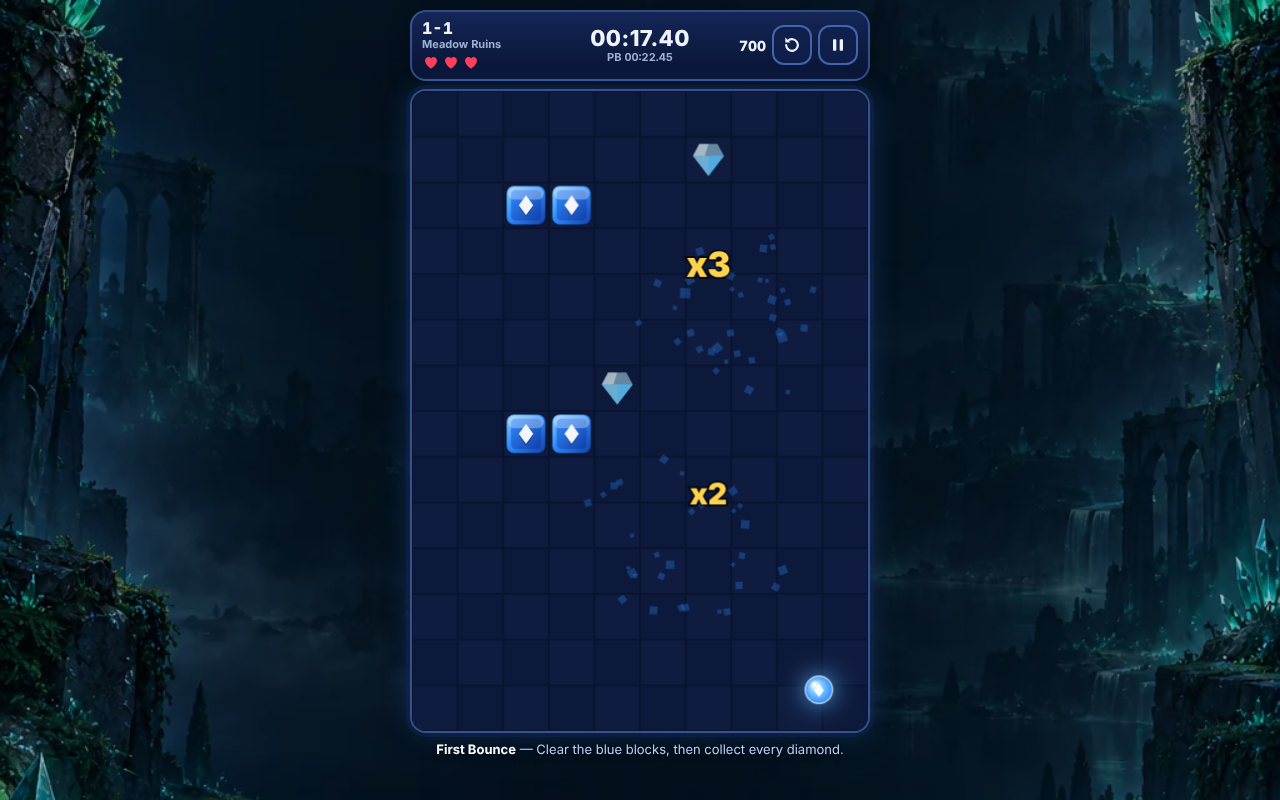
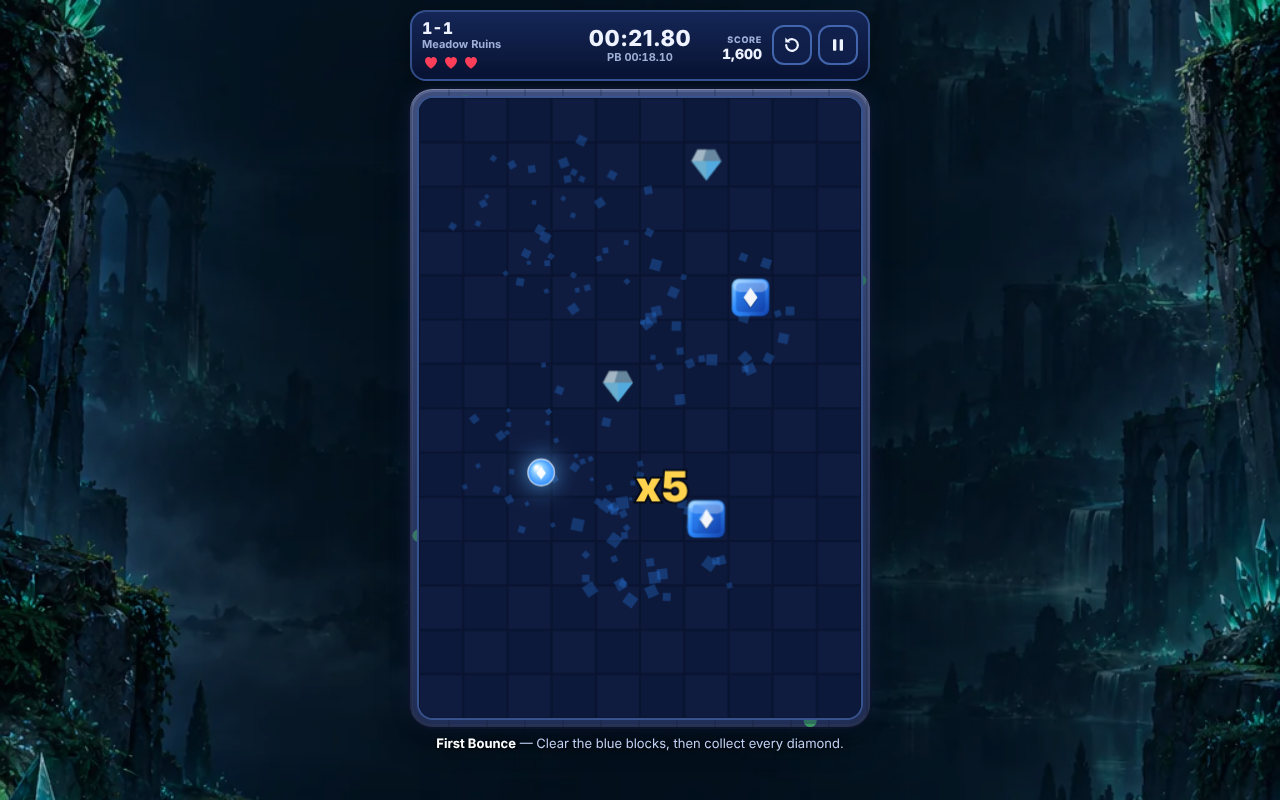
tiltstones: reviewer fixes — stuck panel, frame, callout/combo overlap, win panel; design requests R1-R2
Claude-Session: https://claude.ai/code/session_014SCvTSvNFtm4ysqQK3KLDP

diff --git a/games/tiltstones/index.html b/games/tiltstones/index.html
@@ -87,12 +87,21 @@
   #clock { font: 800 22px var(--font); letter-spacing: .02em; line-height: 1.1; }
   #pb { font-size: 11px; color: var(--muted); font-weight: 700; }
   .hud-r { display: flex; justify-content: flex-end; align-items: center; gap: 6px; }
-  .score { text-align: right; line-height: 1.05; min-width: 0; }
+  .score { text-align: right; line-height: 1.05; min-width: 0; margin-right: 4px; }
+  .slabel { font-size: 9px; font-weight: 800; color: var(--muted); letter-spacing: .08em; text-transform: uppercase; }
   #combo { display: block; font: 900 20px var(--font); color: var(--gold); text-shadow: 0 0 10px rgba(255,190,40,.7); min-height: 1px; }
   #combo.pop { animation: pop .35s ease-out; }
   @keyframes pop { 0% { transform: scale(1.8); } 100% { transform: scale(1); } }
   #score { font-weight: 800; font-size: 14px; }
   .hud .icon { width: 40px; height: 40px; }
+  .frame { padding: 7px; border-radius: 22px; margin: 0 auto; max-width: 100%;
+    background:
+      radial-gradient(circle at 6% 4%, #4fa85a 0 9px, transparent 10px), radial-gradient(circle at 12% 2%, #3f9a52 0 6px, transparent 7px),
+      radial-gradient(circle at 94% 97%, #4fa85a 0 9px, transparent 10px), radial-gradient(circle at 87% 99%, #3f9a52 0 6px, transparent 7px),
+      radial-gradient(circle at 98% 30%, #3f9a52 0 5px, transparent 6px), radial-gradient(circle at 2% 70%, #4fa85a 0 6px, transparent 7px),
+      repeating-linear-gradient(90deg, rgba(0,0,0,.18) 0 2px, transparent 2px 38px),
+      linear-gradient(#5a6386, #343b58 60%, #262c44);
+    box-shadow: 0 0 0 2px rgba(10,14,30,.8), 0 10px 30px rgba(0,0,0,.5), inset 0 1px 0 rgba(255,255,255,.25); }
   .stage { position: relative; width: fit-content; max-width: 100%; margin: 0 auto; }
   canvas { display: block; border-radius: 16px; touch-action: none; border: 2px solid rgba(110,160,255,.45);
     box-shadow: 0 0 0 4px rgba(20,40,90,.35), 0 0 28px rgba(60,120,255,.25); background: #0a1430; }
@@ -187,12 +196,12 @@
     </div>
     <div class="hud-c"><div id="clock">00:00.00</div><div id="pb">PB --:--.--</div></div>
     <div class="hud-r">
-      <div class="score"><span id="combo"></span><span id="score">0</span></div>
+      <div class="score"><span id="combo"></span><small class="slabel">Score</small> <span id="score">0</span></div>
       <button class="icon" id="restartBtn" aria-label="Restart level" title="Restart (R)"><svg><use href="#i-restart"/></svg></button>
       <button class="icon" id="pauseBtn" aria-label="Pause" title="Pause (P / Esc)"><svg><use href="#i-pause"/></svg></button>
     </div>
   </div>
-  <div class="stage" id="stage">
+  <div class="frame"><div class="stage" id="stage">
     <canvas id="cv" width="400" height="560" aria-label="Game board"></canvas>
     <div class="callout" id="tip1" hidden>Hit blocks with the ball's colour and symbol to break them.</div>
     <div class="callout" id="tip2" hidden>Move left and right to steer. The ball bounces by itself.</div>
@@ -218,6 +227,11 @@
         <p id="lostHint"></p>
         <div class="acts"><button class="btn" id="retryBtn">Try Again</button><button class="btn2" data-map>Back to World</button></div>
       </div>
+      <div class="panel" id="pStuck" hidden>
+        <h2>No way back to blue</h2>
+        <p id="stuckText">Blue blocks are left, but nothing paints the ball blue again on this level.</p>
+        <div class="acts"><button class="btn" id="stuckBtn">Restart level</button><button class="btn2" id="stuckKeep">Keep playing</button></div>
+      </div>
       <div class="panel" id="pPause" hidden>
         <h2>Paused</h2>
         <div class="sub" id="pauseSub">1-1 · First Bounce</div>
@@ -229,6 +243,7 @@
         </div>
       </div>
     </div>
+  </div>
   </div>
   <div class="pad">
     <button class="hold" id="holdL" aria-label="Steer left"><svg><use href="#i-left"/></svg></button>
@@ -802,9 +817,9 @@ let game = null, screen = "title", particles = [], floaters = [], flash = 0, pul
 let CELL = 40, DPR = 1;
 function resize() {
   const wrap = $("game");
-  const wCss = Math.min(460, wrap.clientWidth - 32 || window.innerWidth - 32);
+  const wCss = Math.min(446, (wrap.clientWidth || window.innerWidth) - 46);
   const padH = matchMedia("(min-width: 700px) and (hover: hover)").matches ? 0 : 74;
-  const maxH = Math.max(300, window.innerHeight - 92 - padH - 54);
+  const maxH = Math.max(300, window.innerHeight - 92 - padH - 68);
   const cell = Math.max(22, Math.min(wCss / W, maxH / H, 46));
   const cssW = Math.floor(cell * W), cssH = Math.floor(cell * H);
   DPR = Math.min(window.devicePixelRatio || 1, 2);
@@ -882,7 +897,7 @@ function burst(e, color, n, size = 0.12) {
     particles.push({ x: e.x, y: e.y, vx: Math.cos(a) * v, vy: Math.sin(a) * v, life: 0.55, max: 0.55, color, size: size * (0.6 + Math.random() * 0.8), r: Math.random() * 3 });
   }
 }
-function floater(x, y, text, color, size = 0.5) { floaters.push({ x, y, text, color, size, life: 0.8 }); if (floaters.length > 4) floaters.shift(); }
+function floater(x, y, text, color, size = 0.5) { floaters.push({ x, y, text, color, size, life: 0.8 }); if (floaters.length > 1) floaters.shift(); }
 
 // ======================= UI =======================
 const fmt = (sec) => { if (sec == null || !isFinite(sec)) return "--:--.--"; const cs = Math.round(sec * 100); const m = Math.floor(cs / 6000), s2 = Math.floor(cs / 100) % 60, h = cs % 100; return `${String(m).padStart(2, "0")}:${String(s2).padStart(2, "0")}.${String(h).padStart(2, "0")}`; };
@@ -924,7 +939,7 @@ function show(id) {
 }
 function showPanel(which) {
   $("ov").hidden = !which;
-  for (const p of ["pWon", "pLost", "pPause"]) $(p).hidden = p !== which;
+  for (const p of ["pWon", "pLost", "pPause", "pStuck"]) $(p).hidden = p !== which;
   if (which) { const btn = $(which).querySelector(".btn"); if (btn) btn.focus({ preventScroll: true }); }
 }
 function startLevel(lv) {
@@ -944,8 +959,8 @@ function tutorial(on) {
   t1.classList.remove("fade"); t2.classList.remove("fade");
   t1.hidden = t2.hidden = !on;
   if (!on) return;
-  t1.style.left = "8%"; t1.style.top = "34%";
-  t2.style.right = "6%"; t2.style.bottom = "6%";
+  t1.style.left = "2%"; t1.style.top = "1%";
+  t2.style.right = "2%"; t2.style.bottom = "1%"; t2.style.maxWidth = "46%"; t1.style.maxWidth = "56%";
   const coarse = matchMedia("(pointer: coarse)").matches;
   t2.textContent = coarse ? "Hold ◀ ▶ (or tilt) to steer. The ball bounces by itself." : "Use ← → to steer. The ball bounces by itself.";
   tipTimer = setTimeout(() => { t1.classList.add("fade"); t2.classList.add("fade"); }, 7000);
@@ -962,7 +977,8 @@ function handleEvents() {
     if (e.t === "grey") burst(e, "#c9d0e2", 8);
     if (e.t === "diamond") { burst(e, "#bff3ff", 16); floater(e.x, e.y - 0.2, "+500", "#bff3ff", 0.45); }
     if (e.t === "unlock" || e.t === "key") burst(e, "#ffd34d", 10);
-    if (e.t === "paint") { pulse = 1; burst(e, PAL[e.color].mid, 8, 0.08); }
+    if (e.t === "paint") { pulse = 1; burst(e, PAL[e.color].mid, 10, 0.08); }
+    if (e.t === "dip") { pulse = 0.7; burst(e, PAL[game.ball.color].mid, 6, 0.07); }
     if (e.t === "die") { burst(e, "#ff6b6b", 18); if (!reduceMotion) flash = 0.6; trail = []; }
     if (e.t === "win" && !reduceMotion) flash = 1;
   }
@@ -975,6 +991,8 @@ function sync() {
   if (stuck !== stuckShown) {
     stuckShown = stuck;
     setHelp(stuck ? (c.skulls ? "The ball can't turn blue again — hit a skull or press ↻." : "The ball can't turn blue again — press ↻ to restart.") : levelHelp(), stuck);
+    // no skull on the board: the level can't be finished, so say so on the board and offer a restart
+    if (stuck && !c.skulls && !qaDriven) { screen = "stuck"; held.left = held.right = false; showPanel("pStuck"); }
   }
   if (game.screen !== "playing" && screen === "playing") {
     screen = game.screen;
@@ -993,10 +1011,12 @@ function finishLevel() {
   $("wonSub").textContent = `${L.id} · ${L.name}`;
   $("stars").innerHTML = [1, 2, 3].map((i) => starSvg(i <= st)).join("");
   $("wTime").textContent = fmt(time); $("wScore").textContent = game.score.toLocaleString("en-US"); $("wCombo").textContent = "x" + Math.max(1, game.maxCombo);
-  $("nbTime").hidden = !nb.time || prev.time == null; $("nbScore").hidden = !nb.score || prev.score == null; $("nbCombo").hidden = !nb.combo || prev.combo == null;
+  $("nbTime").hidden = !nb.time; $("nbScore").hidden = !nb.score; $("nbCombo").hidden = !nb.combo;
   $("wPar").textContent = `Par ${fmt(L.par)} · PB ${fmt(save.best[L.id].time)}`;
   const last = game.level === LEVELS.length - 1;
   $("nextBtn").textContent = last ? "World Map" : "Next Level";
+  $("pWon").querySelector("[data-map]").hidden = last;
+  $("pWon").querySelector(".row2").style.gridTemplateColumns = last ? "1fr" : "";
   $("pb").textContent = "PB " + fmt(save.best[L.id].time);
   showPanel("pWon");
 }
@@ -1062,7 +1082,7 @@ function currentSteer() {
 const KEYMAP = { ArrowLeft: "left", a: "left", A: "left", ArrowRight: "right", d: "right", D: "right" };
 document.addEventListener("keydown", (e) => {
   if (KEYMAP[e.key]) { if (screen === "playing") { e.preventDefault(); held[KEYMAP[e.key]] = true; } return; }
-  if (e.key === "r" || e.key === "R") { if (game && ["playing", "paused", "won", "lost"].includes(screen)) play(game.level); return; }
+  if (e.key === "r" || e.key === "R") { if (game && ["playing", "paused", "won", "lost", "stuck"].includes(screen)) play(game.level); return; }
   if (e.key === "m" || e.key === "M") { toggleMute(); return; }
   if (e.key === "p" || e.key === "P" || e.key === "Escape") { if (screen === "playing") pause(); else if (screen === "paused") resume(); return; }
 });
@@ -1097,6 +1117,8 @@ $("restartBtn").addEventListener("click", () => play(game.level));
 $("pRestart").addEventListener("click", () => play(game.level));
 $("pauseBtn").addEventListener("click", () => { if (screen === "playing") pause(); else if (screen === "paused") resume(); });
 $("resumeBtn").addEventListener("click", resume);
+$("stuckBtn").addEventListener("click", () => play(game.level));
+$("stuckKeep").addEventListener("click", () => { screen = "playing"; showPanel(null); });
 document.querySelectorAll("[data-map]").forEach((b) => b.addEventListener("click", openWorlds));
 document.querySelectorAll("[data-mute]").forEach((b) => b.addEventListener("click", () => { ensureAudio(); toggleMute(); }));
 function paintMute() {

diff --git a/games/tiltstones/design/REQUESTS.md b/games/tiltstones/design/REQUESTS.md
@@ -1,0 +1,56 @@
+# Design requests — Ricochet
+
+Requests for Benji's designer (ChatGPT). Each one must stand alone: the designer can't see the repo
+unless Benji connects it, so include everything needed. Newest first. When a hand-off answers a
+request, mark it `answered` and note where the result landed.
+
+---
+
+## R2 — Measured pars for World 1 · status: open
+
+**Context:** Ricochet is a Diamonds-style puzzle: the ball bounces vertically on its own at 9 cells/s and
+the player only steers left/right (max 5.5 cells/s). Blocks break only when the ball has their colour;
+paint pots repaint it (dip and bounce back out); diamonds break once all coloured blocks are gone. World 1
+"Meadow Ruins" (levels 1-1 to 1-8, from levels.json v0.2-review) is now playable in the engine.
+
+**What's needed:** Updated `parSeconds` for 1-1 … 1-8. The provisional pars are 2–8× slower than measured
+clears, so every clear earns 3 stars. Measured (engine autopilot with perfect information, game time):
+
+| Level | Autopilot | Current par |
+|---|---|---|
+| 1-1 | 6.8 s | 25 s |
+| 1-2 | 7.7 s | 30 s |
+| 1-3 | 5.4 s | 38 s |
+| 1-4 | 15.4 s | 42 s |
+| 1-5 | 27.2 s | 52 s |
+| 1-6 | 7.7 s | 46 s |
+| 1-7 | 9.5 s | 50 s |
+| 1-8 | 30.2 s | 65 s |
+
+A human playtester using the keyboard cleared 1-1 in 14.7 s. Pars depend on how Benji decides time, score
+and stars relate (still open in DESIGN.md), so this may wait for that decision.
+
+**Constraints:** Par stays a target only, never a loss timer.
+
+**Deliver as:** `parSeconds` values in levels.json (or a markdown table).
+
+**Meanwhile the studio:** The build shows the designer pars unchanged. Stars use a placeholder:
+3 at or under par, 2 within 1.5× par, otherwise 1.
+
+## R1 — Key in 1-7 and 1-8 is collected without trying · status: open
+
+**Context:** Same game as R2. Levels 1-7 "The Garden Gate" and 1-8 "Ruins in Bloom" teach key + lock:
+a key (`k`) is collected on contact and opens the single lock (`L`) in a stone shelf (`##L##` / `.##L#`).
+
+**What's needed:** A decision on whether the key and lock should matter. In both grids the key sits at
+column 4, row 10 (1-based), straight above the ball start at column 4, row 13, so the ball picks it up
+0.3 s after the level starts with no input. Both levels are also completable with the lock treated as
+a wall, because the shelf has open lanes on both sides; the gate is a shortcut, not a requirement.
+Options: move the key one tile sideways so it has to be fetched, and/or extend the shelf so the gate is
+the only way through (as the hint "Take the key to open a route" suggests).
+
+**Constraints:** 10×14 grids, same legend; every level must stay solvable with no gear equipped.
+
+**Deliver as:** Updated grid strings for 1-7 and 1-8 in levels.json.
+
+**Meanwhile the studio:** Both levels ship exactly as delivered (DESIGN.md: don't redesign designer levels).
